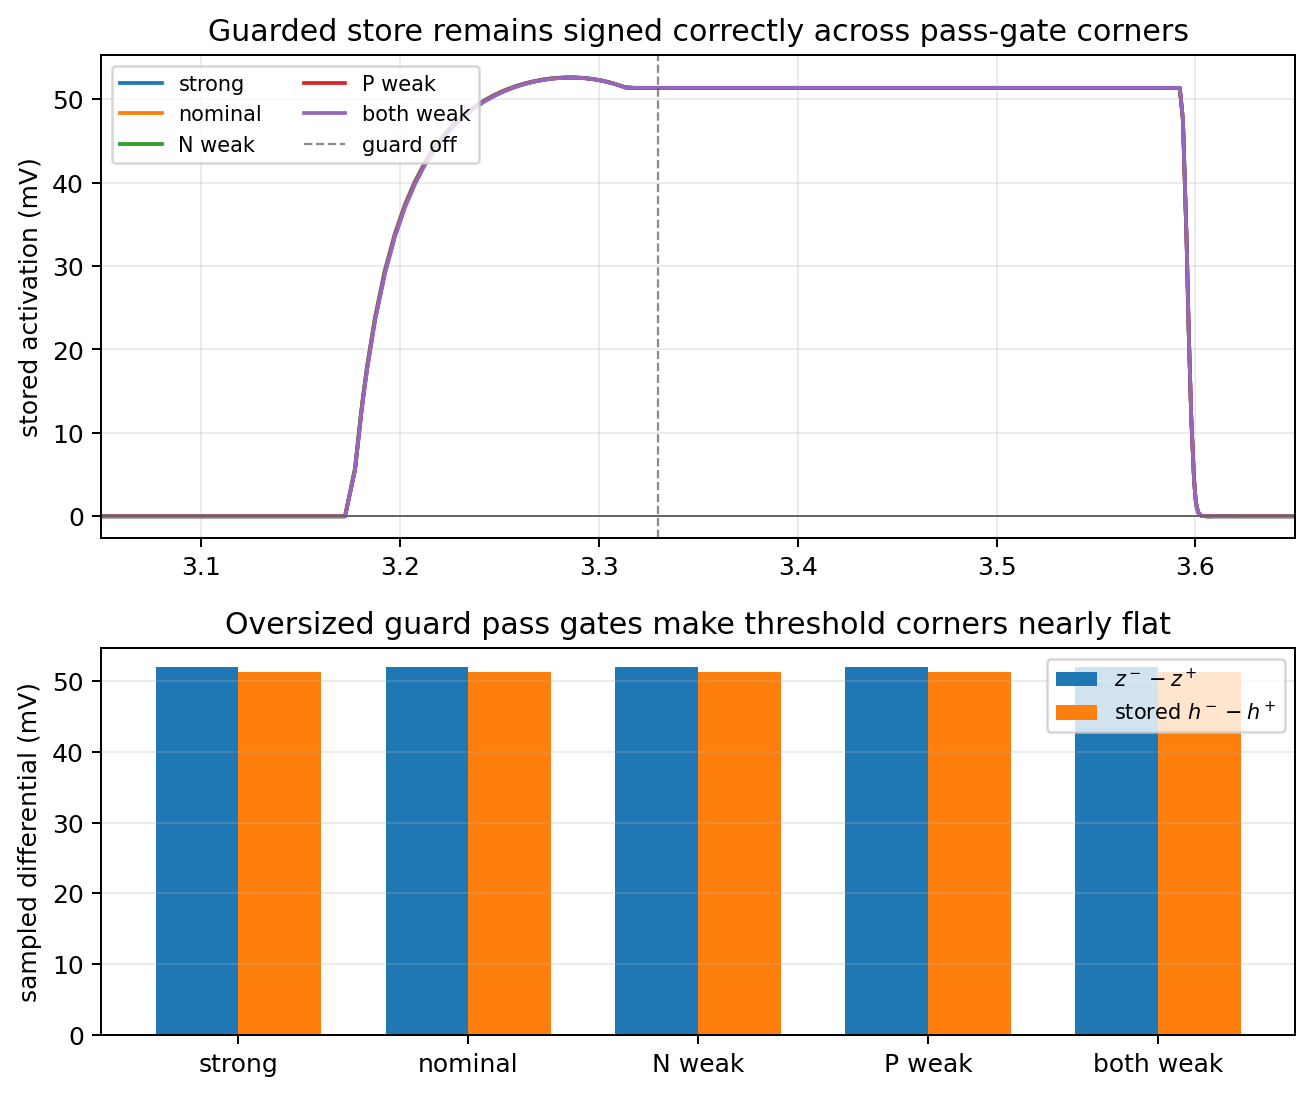
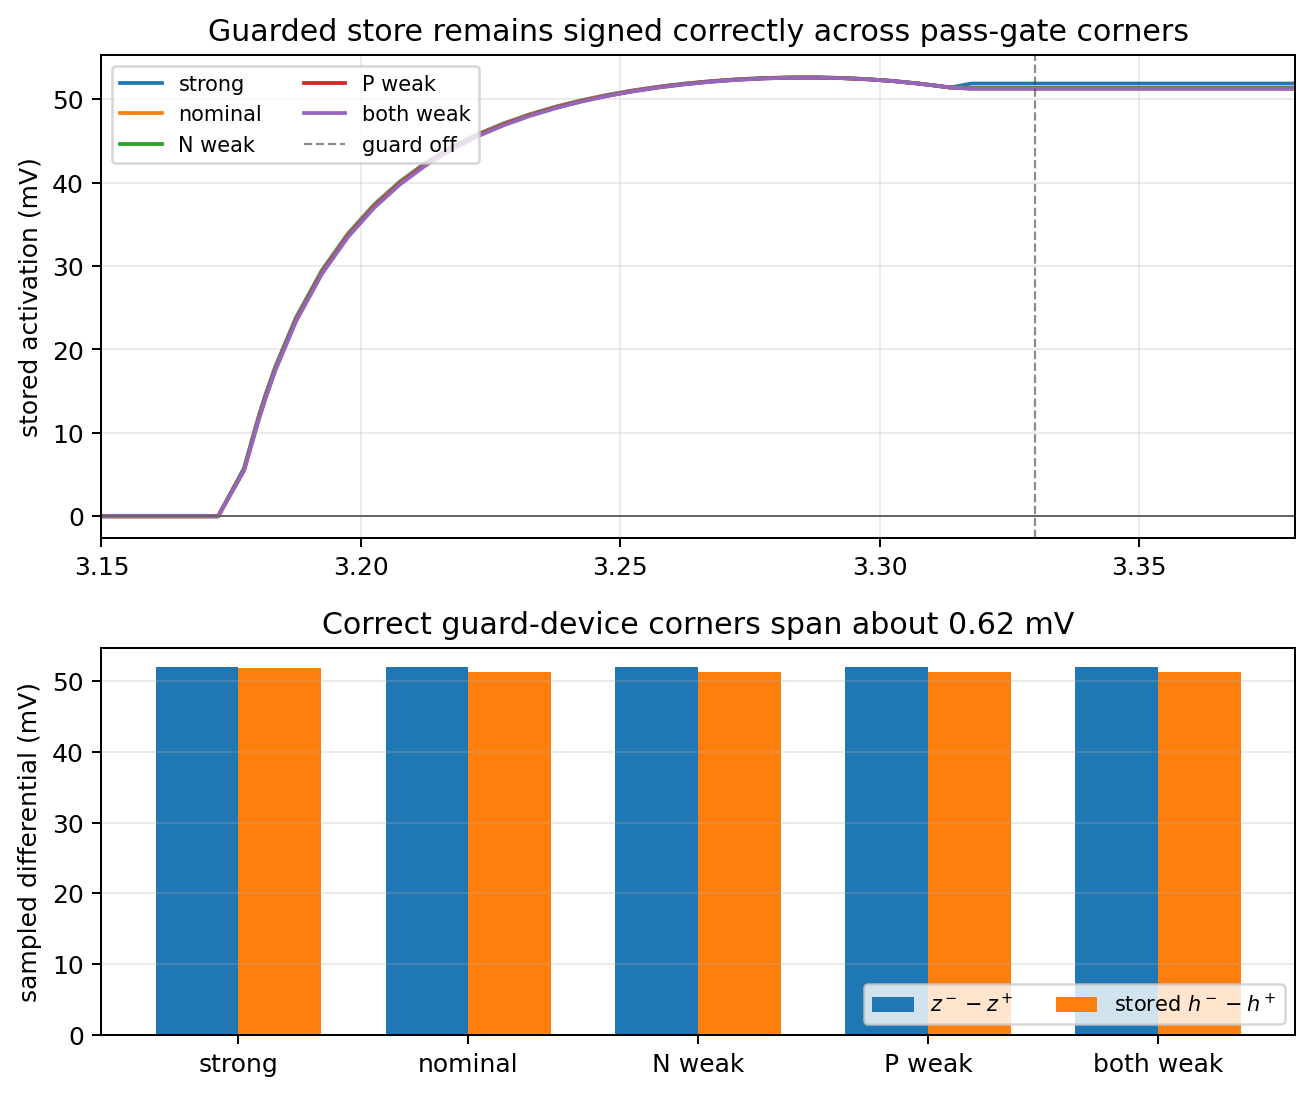
Fix MOS guard switch corner and size sweeps

diff --git a/spice/run_mos_cell_characterization.py b/spice/run_mos_cell_characterization.py
@@ -7315,8 +7315,34 @@ quit
     guard_gated_store_samples = []
     guard_gated_preact_samples = []
     guard_gated_traces = []
-    guard_store_line_p = read_gated_store_line_p.replace("reads_hyr", "guard_hyr").replace("readsn_hyr", "guardn_hyr")
-    guard_store_line_m = read_gated_store_line_m.replace("reads_hyr", "guard_hyr").replace("readsn_hyr", "guardn_hyr")
+
+    def make_guard_store_lines(
+        guard_n_width_u: float = 96.0,
+        guard_p_width_u: float = 240.0,
+        guard_n_model: str = "NMOS",
+        guard_p_model: str = "PMOS",
+    ) -> tuple[str, str]:
+        guard_n_width = f"{guard_n_width_u:g}u"
+        guard_p_width = f"{guard_p_width_u:g}u"
+        store_p = "\n".join(
+            [
+                "MSFP_HYR hp_hyr pact_hyr hp_mid_hyr 0 NMOS L={LCH} W=96u",
+                "MSFPP_HYR hp_hyr pactn_hyr hp_mid_hyr vdd PMOS L={LCH} W=240u",
+                f"MSFPV_HYR hp_mid_hyr guard_hyr hp_fwd_hyr 0 {guard_n_model} L={{LCH}} W={guard_n_width}",
+                f"MSFPVP_HYR hp_mid_hyr guardn_hyr hp_fwd_hyr vdd {guard_p_model} L={{LCH}} W={guard_p_width}",
+            ]
+        )
+        store_m = "\n".join(
+            [
+                "MSFM_HYR hm_hyr pact_hyr hm_mid_hyr 0 NMOS L={LCH} W=96u",
+                "MSFMP_HYR hm_hyr pactn_hyr hm_mid_hyr vdd PMOS L={LCH} W=240u",
+                f"MSFMV_HYR hm_mid_hyr guard_hyr hm_fwd_hyr 0 {guard_n_model} L={{LCH}} W={guard_n_width}",
+                f"MSFMVP_HYR hm_mid_hyr guardn_hyr hm_fwd_hyr vdd {guard_p_model} L={{LCH}} W={guard_p_width}",
+            ]
+        )
+        return store_p, store_m
+
+    guard_store_line_p, guard_store_line_m = make_guard_store_lines()
     for width_ns in aperture_cases_ns:
         stem = f"mos_hidden_writer_restored_gate_hybrid_update_forward_read_pact_guarded_tg_aperture_{width_ns}ns"
         end_us = aperture_start_us + width_ns / 1000.0
@@ -7603,10 +7629,10 @@ quit
             f".model {n_model} NMOS (LEVEL=1 VTO={n_vto:.2f} KP=220u LAMBDA=0.03)\n"
             f".model {p_model} PMOS (LEVEL=1 VTO={p_vto:.2f} KP=90u LAMBDA=0.03)"
         )
-        corner_store_line_p = guard_store_line_p.replace("NMOS L={LCH} W=96u", f"{n_model} L={{LCH}} W=96u", 1)
-        corner_store_line_p = corner_store_line_p.replace("PMOS L={LCH} W=240u", f"{p_model} L={{LCH}} W=240u", 1)
-        corner_store_line_m = guard_store_line_m.replace("NMOS L={LCH} W=96u", f"{n_model} L={{LCH}} W=96u", 1)
-        corner_store_line_m = corner_store_line_m.replace("PMOS L={LCH} W=240u", f"{p_model} L={{LCH}} W=240u", 1)
+        corner_store_line_p, corner_store_line_m = make_guard_store_lines(
+            guard_n_model=n_model,
+            guard_p_model=p_model,
+        )
         corner_deck = replace_required(hybrid_forward_read_reuse_deck, timing_read_pwl, timing_single_read_pwl)
         corner_deck = replace_required(
             corner_deck,
@@ -7643,8 +7669,63 @@ quit
         "nominal guard corner should match the nominal timing sample",
     )
     require(
-        np.max(guard_corner_store_samples) - np.min(guard_corner_store_samples) < 0.00008,
-        "oversized guard pass gates should make threshold-corner capture nearly flat",
+        np.max(guard_corner_store_samples) - np.min(guard_corner_store_samples) < 0.0008,
+        "oversized guard pass gates should keep threshold-corner variation below 0.8 mV",
+    )
+
+    guard_size_cases = [
+        (0.125, 12.0, 30.0),
+        (0.25, 24.0, 60.0),
+        (0.50, 48.0, 120.0),
+        (1.00, 96.0, 240.0),
+        (1.50, 144.0, 360.0),
+    ]
+    guard_size_labels = []
+    guard_size_store_samples = []
+    guard_size_preact_samples = []
+    guard_size_traces = []
+    for scale, n_width_u, p_width_u in guard_size_cases:
+        stem = (
+            "mos_hidden_writer_restored_gate_hybrid_update_forward_read_pact_"
+            f"guard_size_{str(scale).replace('.', 'p')}x"
+        )
+        sized_store_line_p, sized_store_line_m = make_guard_store_lines(
+            guard_n_width_u=n_width_u,
+            guard_p_width_u=p_width_u,
+        )
+        size_deck = replace_required(hybrid_forward_read_reuse_deck, timing_read_pwl, timing_single_read_pwl)
+        size_deck = replace_required(
+            size_deck,
+            timing_base_pact_pwl,
+            long_pact_pwl + "\n" + long_pactn_pwl + "\n" + corner_guard_pwl + "\n" + corner_guardn_pwl,
+        )
+        size_deck = replace_required(size_deck, nmos_store_line_p, sized_store_line_p)
+        size_deck = replace_required(size_deck, nmos_store_line_m, sized_store_line_m)
+        size_deck = replace_required(
+            size_deck,
+            "mos_hidden_writer_restored_gate_hybrid_update_forward_read_reuse.dat",
+            f"{stem}.dat",
+        )
+        size_data = run_ngspice(size_deck, stem)
+        st, size_cols = load_wrdata(size_data, 23)
+
+        def gsizat(time_s: float, values: np.ndarray) -> float:
+            return float(values[np.argmin(np.abs(st - time_s))])
+
+        size_preact = size_cols[10] - size_cols[9]
+        size_store = size_cols[14] - size_cols[13]
+        guard_size_labels.append(f"{scale:g}x")
+        guard_size_preact_samples.append(gsizat(3.575e-6, size_preact))
+        guard_size_store_samples.append(gsizat(3.575e-6, size_store))
+        guard_size_traces.append((f"{scale:g}x", st, size_store))
+
+    guard_size_preact_samples = np.array(guard_size_preact_samples)
+    guard_size_store_samples = np.array(guard_size_store_samples)
+    require(np.min(guard_size_preact_samples) > 0.048, "guard sizing sweep should keep a valid read state")
+    require(guard_size_store_samples[0] > 0.045, "smallest guard TG should still capture a signed activation")
+    require(
+        guard_size_store_samples[-1] - guard_size_store_samples[0] < 0.010,
+        "guard TG sizing should not be the dominant capture limiter above 0.125x",
     )
 
     read_gated_fig, read_gated_axes = plt.subplots(2, 1, figsize=(7.4, 6.6), gridspec_kw={"height_ratios": [1.0, 0.9]})
@@ -7753,7 +7834,7 @@ quit
         guard_corner_axes[0].plot(1e6 * ct, 1e3 * store, label=label)
     guard_corner_axes[0].axhline(0, color="0.4", linewidth=0.8)
     guard_corner_axes[0].axvline(3.33, color="0.25", linestyle="--", linewidth=0.9, alpha=0.6, label="guard off")
-    guard_corner_axes[0].set_xlim(3.05, 3.65)
+    guard_corner_axes[0].set_xlim(3.15, 3.38)
     guard_corner_axes[0].set_ylabel("stored activation (mV)")
     guard_corner_axes[0].set_title("Guarded store remains signed correctly across pass-gate corners")
     guard_corner_axes[0].grid(True, alpha=0.25)
@@ -7766,11 +7847,35 @@ quit
     guard_corner_axes[1].set_xticks(guard_corner_x)
     guard_corner_axes[1].set_xticklabels(guard_corner_labels)
     guard_corner_axes[1].set_ylabel("sampled differential (mV)")
-    guard_corner_axes[1].set_title("Oversized guard pass gates make threshold corners nearly flat")
+    guard_corner_axes[1].set_title("Correct guard-device corners span about 0.62 mV")
     guard_corner_axes[1].grid(True, axis="y", alpha=0.25)
-    guard_corner_axes[1].legend(loc="upper right", fontsize="small")
+    guard_corner_axes[1].legend(loc="lower right", ncol=2, fontsize="small")
     guard_corner_fig.tight_layout()
     save_plot(guard_corner_fig, "mos_hidden_writer_restored_gate_hybrid_update_forward_guard_corner_ngspice")
+
+    guard_size_fig, guard_size_axes = plt.subplots(2, 1, figsize=(7.4, 6.2), gridspec_kw={"height_ratios": [1.0, 0.8]})
+    for label, st, store in guard_size_traces:
+        guard_size_axes[0].plot(1e6 * st, 1e3 * store, label=label)
+    guard_size_axes[0].axhline(0, color="0.4", linewidth=0.8)
+    guard_size_axes[0].axvline(3.33, color="0.25", linestyle="--", linewidth=0.9, alpha=0.6, label="guard off")
+    guard_size_axes[0].set_xlim(3.15, 3.38)
+    guard_size_axes[0].set_ylabel("stored activation (mV)")
+    guard_size_axes[0].set_title("Guard TG width sweep after the timing fix")
+    guard_size_axes[0].grid(True, alpha=0.25)
+    guard_size_axes[0].legend(loc="upper left", ncol=3, fontsize="small")
+    guard_size_x = np.arange(len(guard_size_labels))
+    guard_size_axes[1].bar(guard_size_x - 0.18, 1e3 * guard_size_preact_samples, width=0.36, label="$z^- - z^+$")
+    guard_size_axes[1].bar(guard_size_x + 0.18, 1e3 * guard_size_store_samples, width=0.36, label="stored $h^- - h^+$")
+    guard_size_axes[1].axhline(0, color="0.4", linewidth=0.8)
+    guard_size_axes[1].set_xticks(guard_size_x)
+    guard_size_axes[1].set_xticklabels(guard_size_labels)
+    guard_size_axes[1].set_xlabel("guard TG width scale")
+    guard_size_axes[1].set_ylabel("sampled differential (mV)")
+    guard_size_axes[1].set_title("The width knee tells where the guard switch stops being oversized")
+    guard_size_axes[1].grid(True, axis="y", alpha=0.25)
+    guard_size_axes[1].legend(loc="lower right", ncol=2, fontsize="small")
+    guard_size_fig.tight_layout()
+    save_plot(guard_size_fig, "mos_hidden_writer_restored_gate_hybrid_update_forward_guard_size_ngspice")
 
     hybrid_repeated_deck = f"""
 * Hybrid restored-enable/analog-error writer repeated-pulse accumulation check.

diff --git a/docs/spicenn_progress_note.tex b/docs/spicenn_progress_note.tex
@@ -1541,13 +1541,31 @@ must satisfy before it can replace the current behavioral prototype.
   Only the second, guard-controlled transmission gate changes threshold model:
   strong, nominal, N-weak, P-weak, and both-weak.  The read preactivation is
   \(52.066\) mV in all cases, and the stored activation is
-  \(51.360,51.355,51.368,51.347,\) and \(51.365\) mV.  The first hypothesis
-  was that the both-weak corner would visibly undercharge the store capacitor;
-  instead, the current guard TG sizing is essentially threshold-corner flat
-  over this Level-1 sweep.  The next robustness risks for this store are
-  clock skew/overlap and hold leakage, not nominal pass-device threshold at
-  these widths.}
+  \(51.884,51.355,51.361,51.266,\) and \(51.274\) mV.  Correctly targeting
+  the guard-controlled devices shows a small but real threshold sensitivity:
+  the span is about \(0.62\) mV, dominated by the strong and P-weak cases,
+  rather than the nearly flat result obtained when the wrong series switch was
+  swept.  The dominant robustness risk is still clock skew/overlap, but the
+  guard TG should be treated as a real sampled-data switch with finite corner
+  sensitivity.}
   \label{fig:mos-hidden-writer-restored-gate-hybrid-update-forward-guard-corner-ngspice}
+\end{figure}
+
+\begin{figure}[H]
+  \centering
+  \includegraphics[width=0.88\linewidth]{figures/mos_hidden_writer_restored_gate_hybrid_update_forward_guard_size_ngspice.png}
+  \caption{Ngspice guard transmission-gate width sweep for the corrected
+  guard-controlled switch in the MOS activation store.  The nominal device
+  pair is \(96\,\mu\mathrm{m}/240\,\mu\mathrm{m}\) for NMOS/PMOS; the sweep
+  uses \(0.125\times,0.25\times,0.5\times,1.0\times,\) and \(1.5\times\)
+  scaling, corresponding to \(12/30,24/60,48/120,96/240,\) and
+  \(144/360\,\mu\mathrm{m}\).  The read preactivation remains
+  \(52.066\) mV and the stored activation is
+  \(51.078,51.255,51.425,51.355,\) and \(51.365\) mV.  Even the smallest
+  tested guard switch captures the signed activation, so the current topology
+  is not width-limited at the nominal point; timing closure remains the larger
+  design constraint.}
+  \label{fig:mos-hidden-writer-restored-gate-hybrid-update-forward-guard-size-ngspice}
 \end{figure}
 
 \begin{figure}[H]

diff --git a/engineering_log.md b/engineering_log.md
@@ -312,6 +312,7 @@
 - Added a MOS hybrid restored-writer local-bias update check. The full local-feature cell needs \(db \propto e\), not only \(dw \propto ae\). A three-PMOS-stack bias writer uses the same stored/restored \(e^+\)/\(e^-\) rails but no activation operand: \(e^+\) moves `B+` by `34.54 mV` with `B-` at about `3 nV`, and \(e^-\) symmetrically moves `B-` by `34.54 mV` with `B+` quiet. Both signed bias states hold after `pacc`. This closes the bias-write primitive gap for the current hybrid writer ladder.
 - Added a MOS read-gated/guarded activation-store aperture comparison for the integrated update-to-forward path. The previous TG store improved short apertures but still drooped for long `pact` pulses (`46.588/52.124/52.141/46.246/34.668/37.163 mV` for `40/80/120/160/240/320 ns`) because the cap remained connected while the forward load collapsed. A series TG controlled by the raw read-valid phase improves the long cases to `40.625 mV`, but still samples part of the read-off transient. A guarded non-overlap valid phase gives `46.577/52.075/52.111/51.355/51.355/51.355 mV`, so the robust topology is not just a bigger TG; it is `pact` AND a separately timed read-valid store gate that disconnects before the load droops.
 - Added a MOS guarded activation-store timing sweep on the same integrated update-to-forward path. With a long `320 ns` `pact` pulse and guard high-times of `60/100/130/150/180/220 ns`, the preactivation stays valid at about `52.066 mV`, while the stored activation samples `50.275/52.654/51.355/48.570/40.624/34.940 mV`. The useful plateau starts earlier than expected; the guard can close soon after capture, but it must close before the forward-load collapse. The best timing in this sizing is around `100`--`130 ns`, and `180+ ns` begins to track droop.
-- Added a MOS guarded activation-store pass-gate threshold-corner sweep. With the same long `320 ns` `pact` pulse and nominal `130 ns` guard window, strong/nominal/N-weak/P-weak/both-weak guard pass devices all keep the read preactivation at `52.066 mV` and store `51.360/51.355/51.368/51.347/51.365 mV`. The failed first hypothesis was that both-weak corners would visibly reduce capture; instead the oversized series TG is threshold-corner flat to about `0.021 mV` over this Level-1 corner set. The remaining guard-store risks are therefore clock overlap/skew, leakage/hold, and sizing reduction, not nominal threshold mismatch at the current widths.
+- Added a MOS guarded activation-store pass-gate threshold-corner sweep. With the same long `320 ns` `pact` pulse and nominal `130 ns` guard window, strong/nominal/N-weak/P-weak/both-weak guard pass devices all keep the read preactivation at `52.066 mV` and store `51.884/51.355/51.361/51.266/51.274 mV` after correcting the sweep to target the second, guard-controlled TG rather than the first `pact` TG. The old near-flat `0.021 mV` conclusion was a fixture bug; the real guard-switch corner span is about `0.62 mV`, still much smaller than the clock-skew loss but not zero.
 - Added a MOS guarded activation-store clock-skew sweep. Holding the guard width at `130 ns` and shifting the window by `-120/-80/-40/0/+40/+80/+120 ns` stores `32.260/48.780/52.517/51.355/42.401/32.238/28.899 mV` while the read preactivation stays near `52.066 mV`. The useful skew window is asymmetric: early skew is tolerated until the `pact` overlap becomes too short (`-40 ns` is still full, `-80 ns` is modestly low), but late skew immediately tracks forward-load droop (`+40 ns` already loses about `9 mV`). The design rule is to bias the guard early rather than late and close it before the read path collapses.
 - Added a MOS guarded activation-store no-reset hold check. With the same nominal guard and long `pact`, but with the reset pulse disabled after capture, the stored activation samples `51.35455/51.35444/51.35431/51.35419/51.35407 mV` at `3.575/4.50/5.50/6.50/7.45 us`; total drift is only about `-0.48 uV` while preactivation remains at `52.066 mV`. In this Level-1 model and leakage setup, the guarded store's immediate problem is timing, not hold leakage.
+- Added a corrected MOS guarded activation-store width sweep on the guard-controlled TG. Scaling the nominal `96u/240u` guard pair to `0.125x/0.25x/0.5x/1.0x/1.5x` stores `51.078/51.255/51.425/51.355/51.365 mV`, with the read preactivation fixed near `52.066 mV`. The width spread is only about `0.35 mV`, so the nominal switch is already oversized enough for Level-1 capture; the real design pressure is phase timing and skew, not simply making the guard switch wider.
